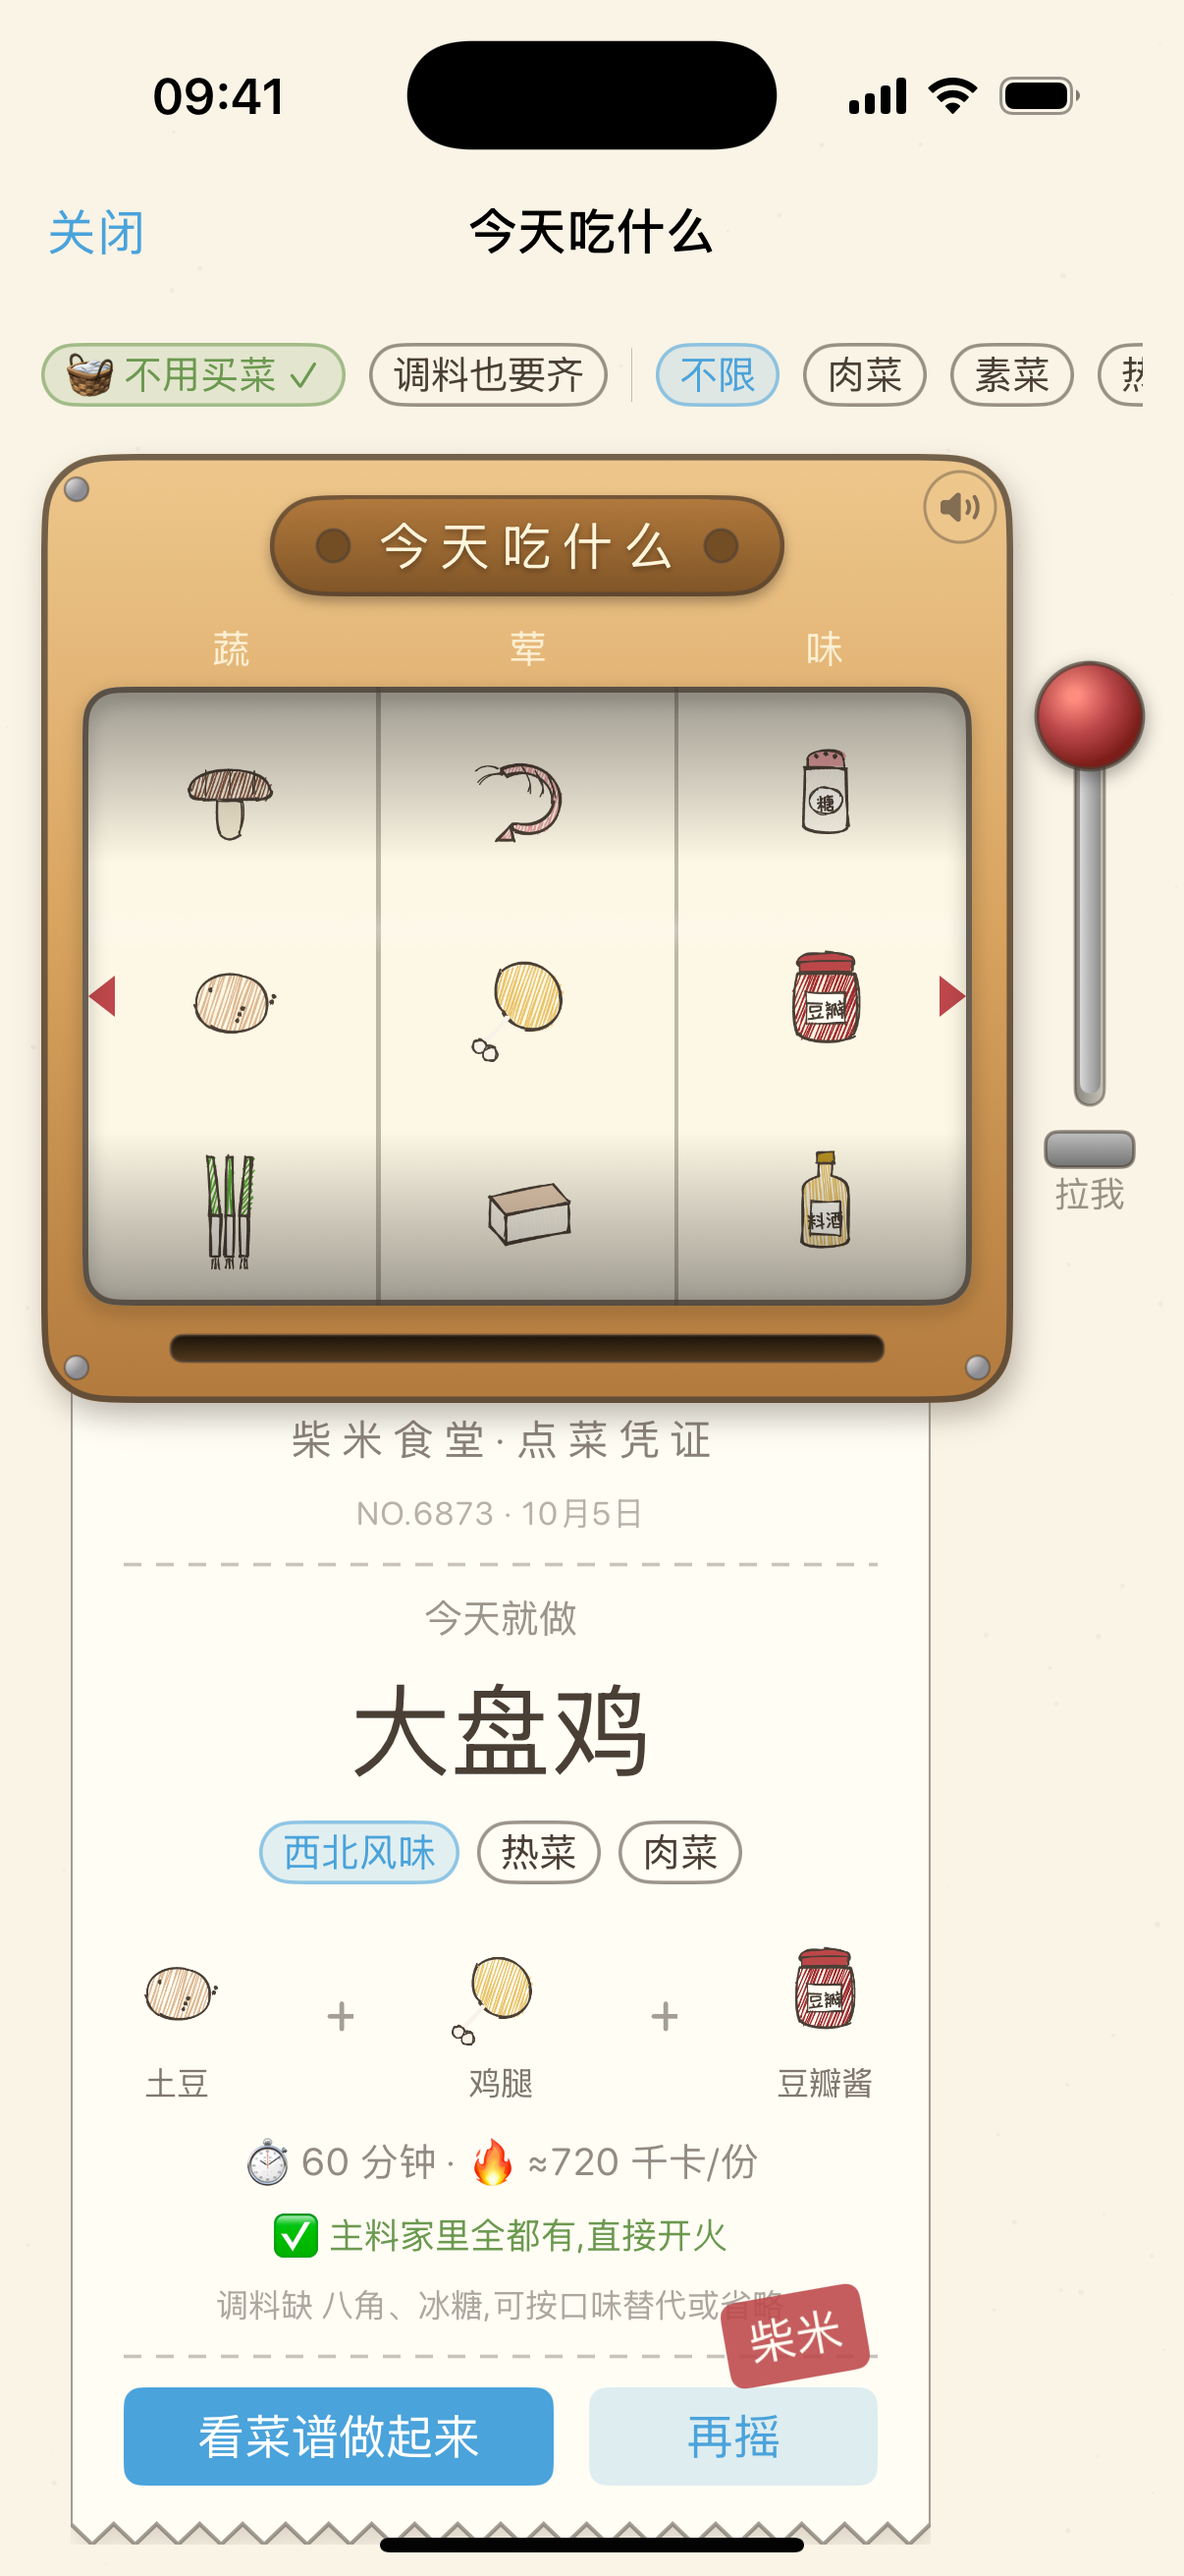
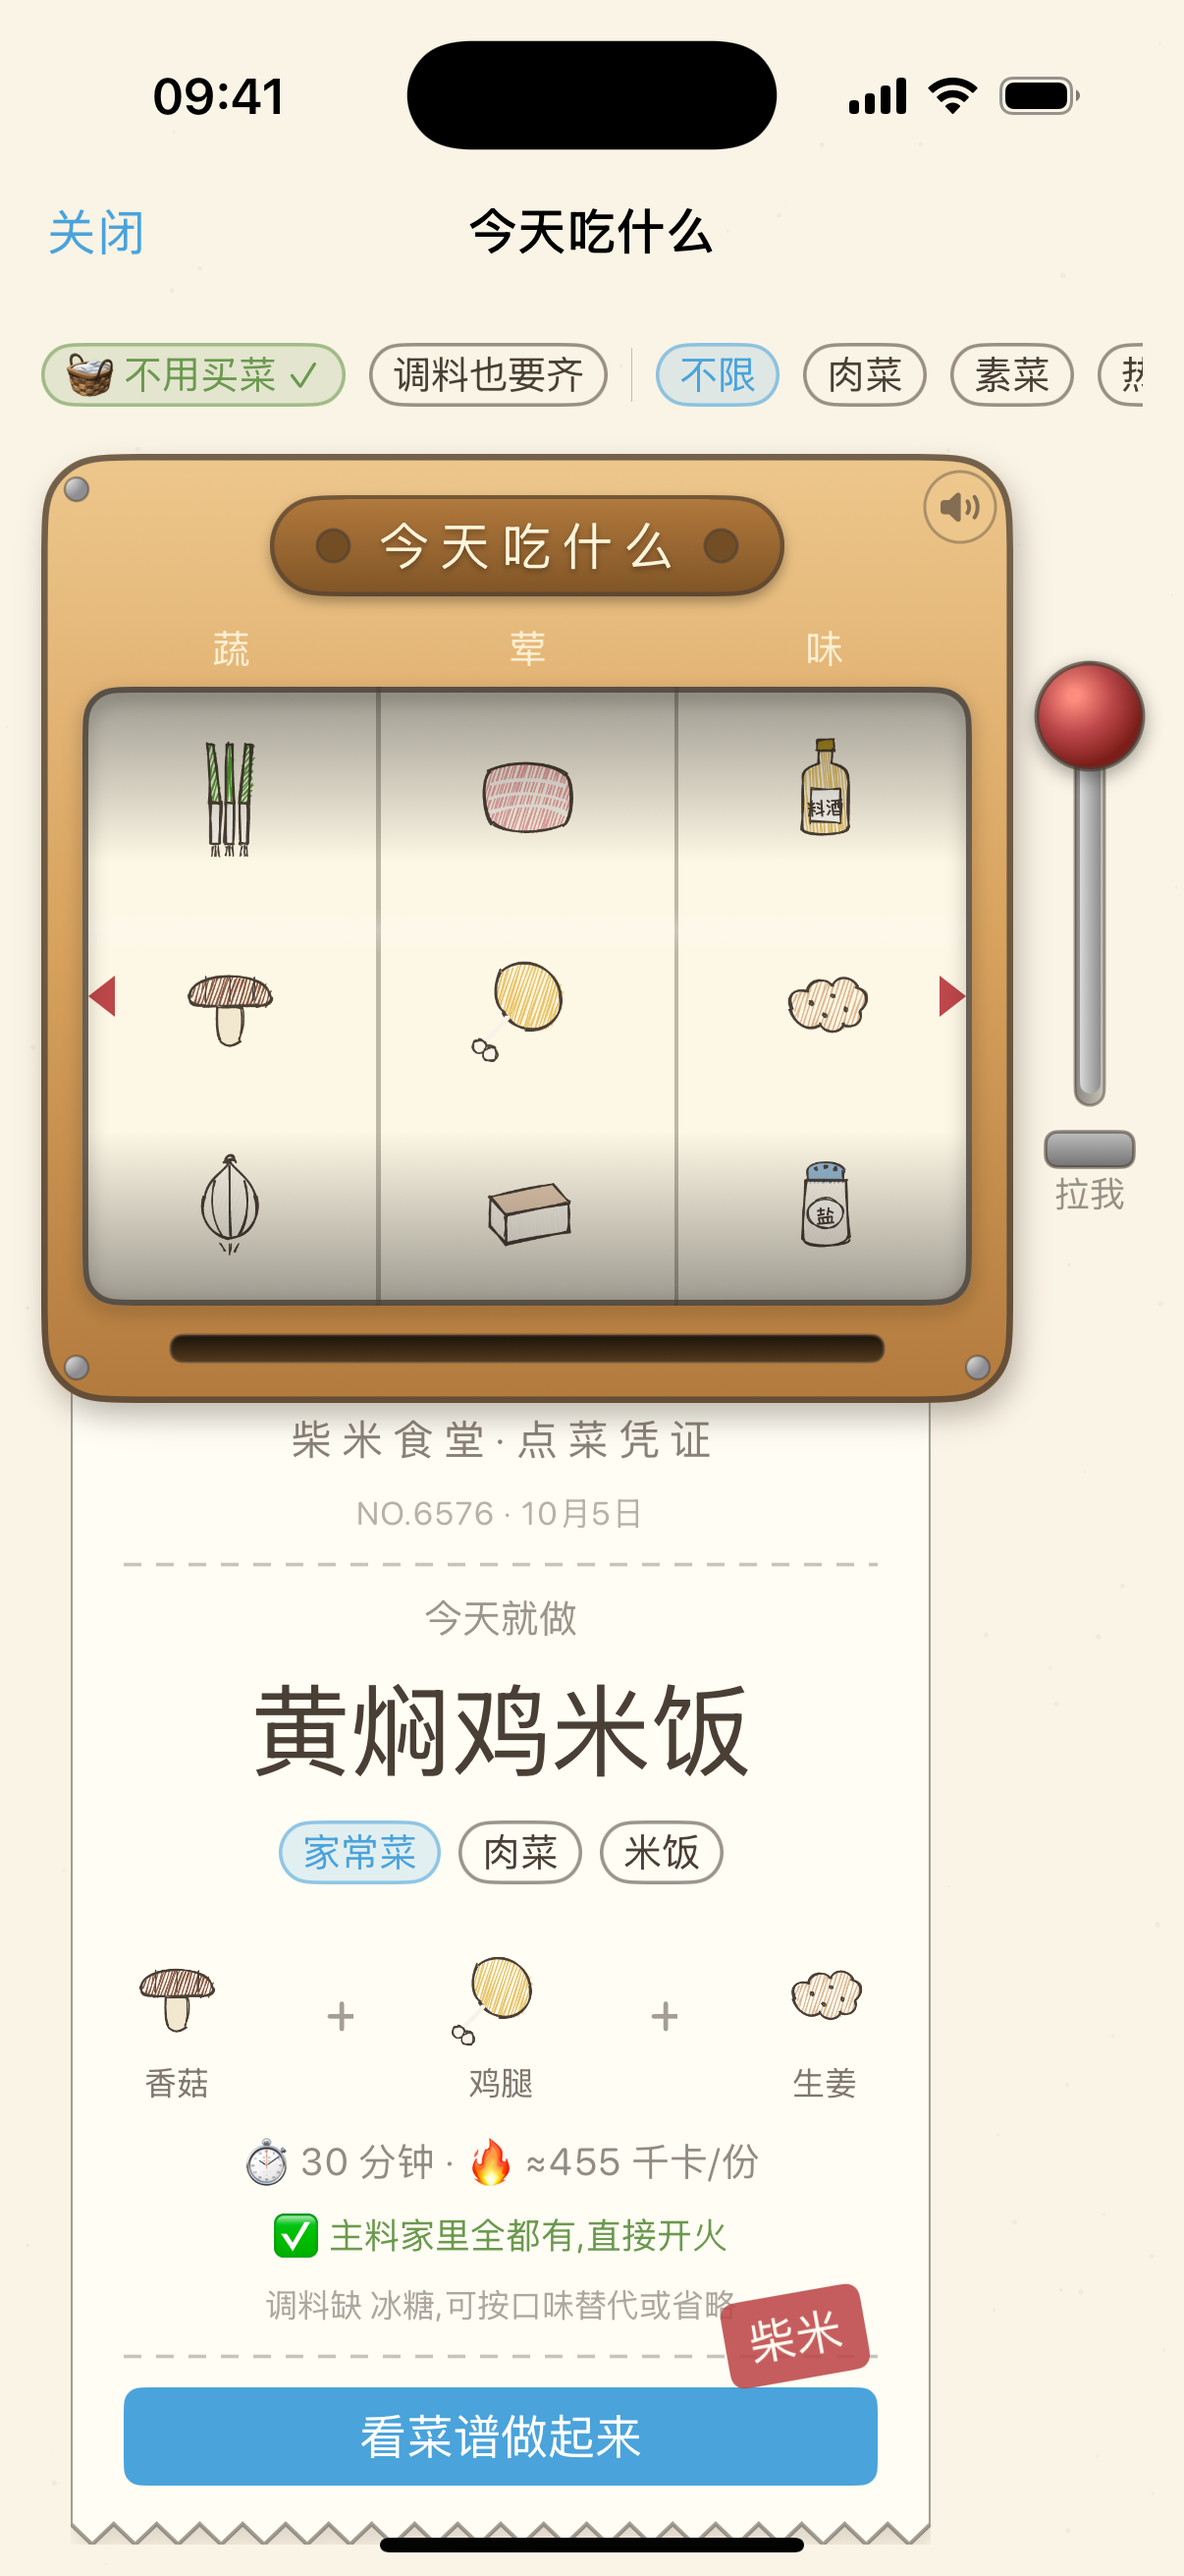
feat(slot): 去掉凭条上的再摇按钮,再摇统一走拉杆
- 凭条只留「看菜谱做起来」,占满整行
- 旧票"吸回打印口"的动画从按钮挪到拉杆路径(有票先缩回再开摇,
  没票直接开摇),保留这个细节
- TicketView 删掉 onAgain 回调;更新 slot-ticket 截图

diff --git a/Chaimi/Views/Recipes/SlotMachineView.swift b/Chaimi/Views/Recipes/SlotMachineView.swift
@@ -46,7 +46,7 @@ struct SlotMachineView: View {
                             .padding(.bottom, 14)
                         HStack(alignment: .center, spacing: 8) {
                             machineBody
-                            LeverView(disabled: spinning) { spin() }
+                            LeverView(disabled: spinning) { pullSpin() }
                         }
                         .zIndex(1)                     // 机身盖住还没抽出来的票
                         ticketArea
@@ -298,7 +298,7 @@ struct SlotMachineView: View {
     @ViewBuilder
     private var ticketArea: some View {
         if ticketVisible, let recipe = result {
-            TicketView(recipe: recipe, no: ticketNo, pantryIds: pantryIds, stamped: stamped, onAgain: { reSpin() })
+            TicketView(recipe: recipe, no: ticketNo, pantryIds: pantryIds, stamped: stamped)
                 .fixedSize(horizontal: false, vertical: true)
                 .background(
                     GeometryReader { geo in
@@ -339,8 +339,9 @@ struct SlotMachineView: View {
         return out
     }
 
-    private func reSpin() {
-        // 旧票被"吸"回打印口,再开新一轮
+    private func pullSpin() {
+        // 有旧票先"吸"回打印口,再开新一轮;没票直接开摇
+        guard ticketVisible, printProgress > 0 else { return spin() }
         SoundPlayer.shared.play("slot_print")
         withAnimation(.easeIn(duration: 0.35)) { printProgress = 0 }
         DispatchQueue.main.asyncAfter(deadline: .now() + 0.38) { spin() }
@@ -521,7 +522,6 @@ struct TicketView: View {
     let no: Int
     let pantryIds: Set<String>
     var stamped: Bool = true
-    var onAgain: () -> Void
 
     private var targets: (veg: CatalogItem, protein: CatalogItem, seasoning: CatalogItem) {
         SlotEngine.reelTargets(for: recipe)
@@ -582,16 +582,10 @@ struct TicketView: View {
                     .font(.hand(11)).foregroundStyle(Color.ink.opacity(0.45))
             }
             DashedLine()
-            HStack(spacing: 12) {
-                NavigationLink(value: recipe.id) {
-                    Text("看菜谱做起来").font(.hand(16)).frame(maxWidth: .infinity)
-                }
-                .buttonStyle(.borderedProminent)
-                Button { onAgain() } label: {
-                    Text("再摇").font(.hand(16)).frame(width: 74)
-                }
-                .buttonStyle(.bordered)
+            NavigationLink(value: recipe.id) {
+                Text("看菜谱做起来").font(.hand(16)).frame(maxWidth: .infinity)
             }
+            .buttonStyle(.borderedProminent)
             .padding(.horizontal, 18)
             .padding(.bottom, 20)
         }
